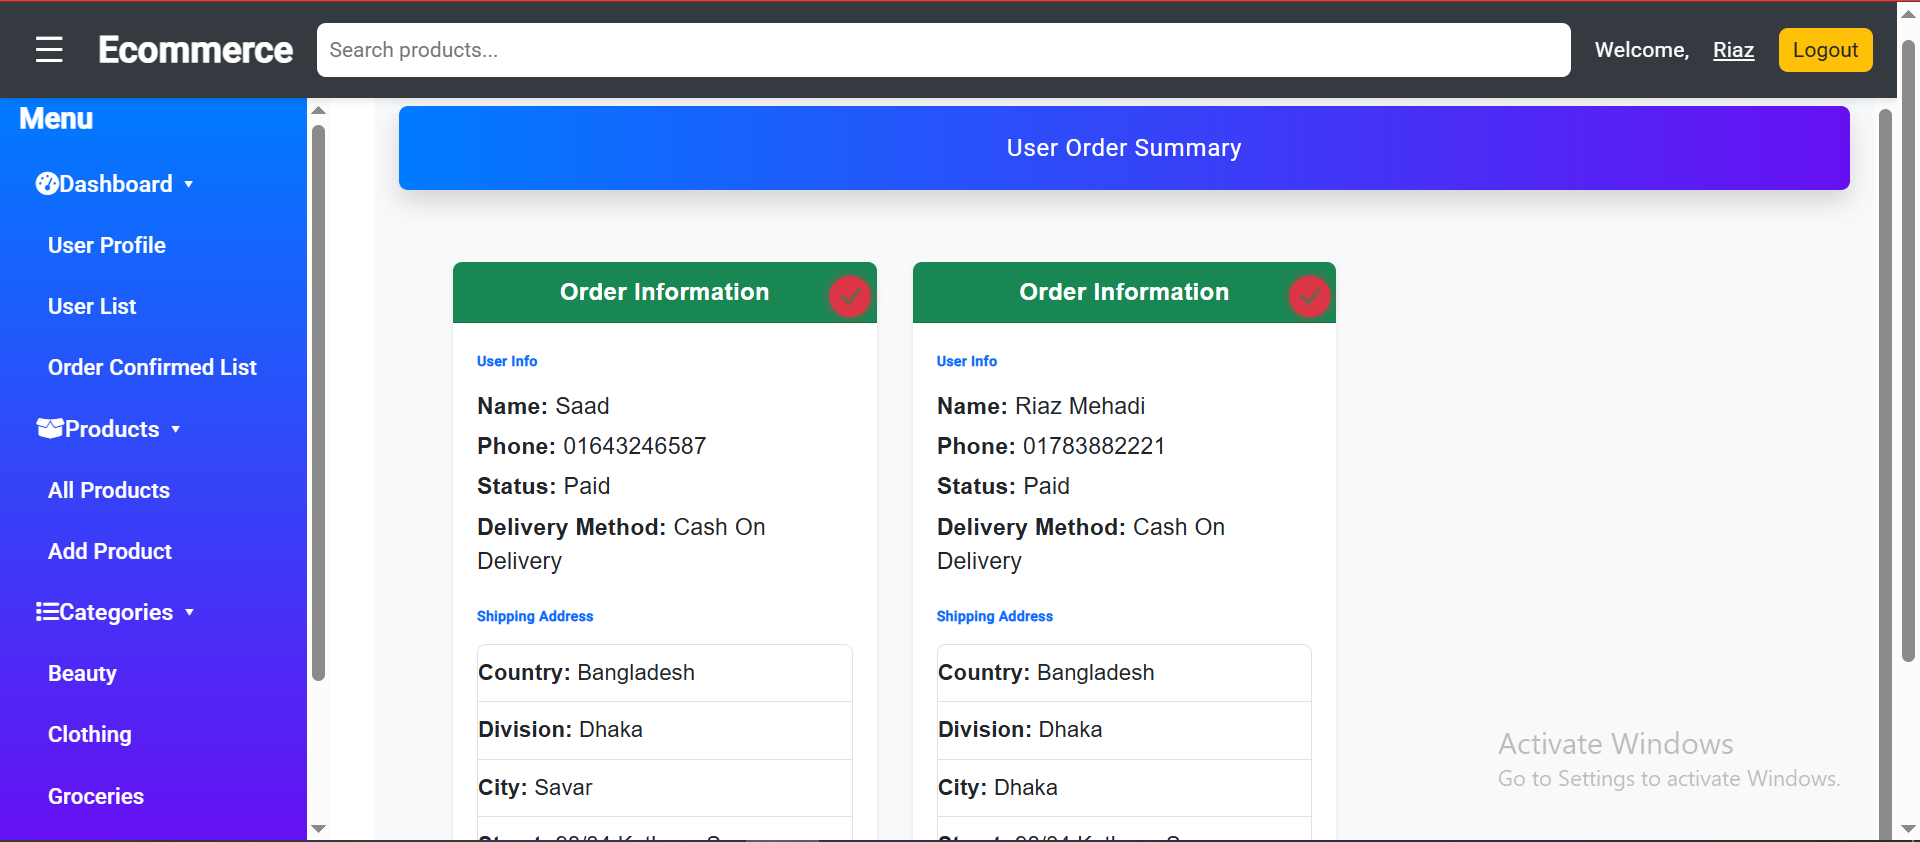
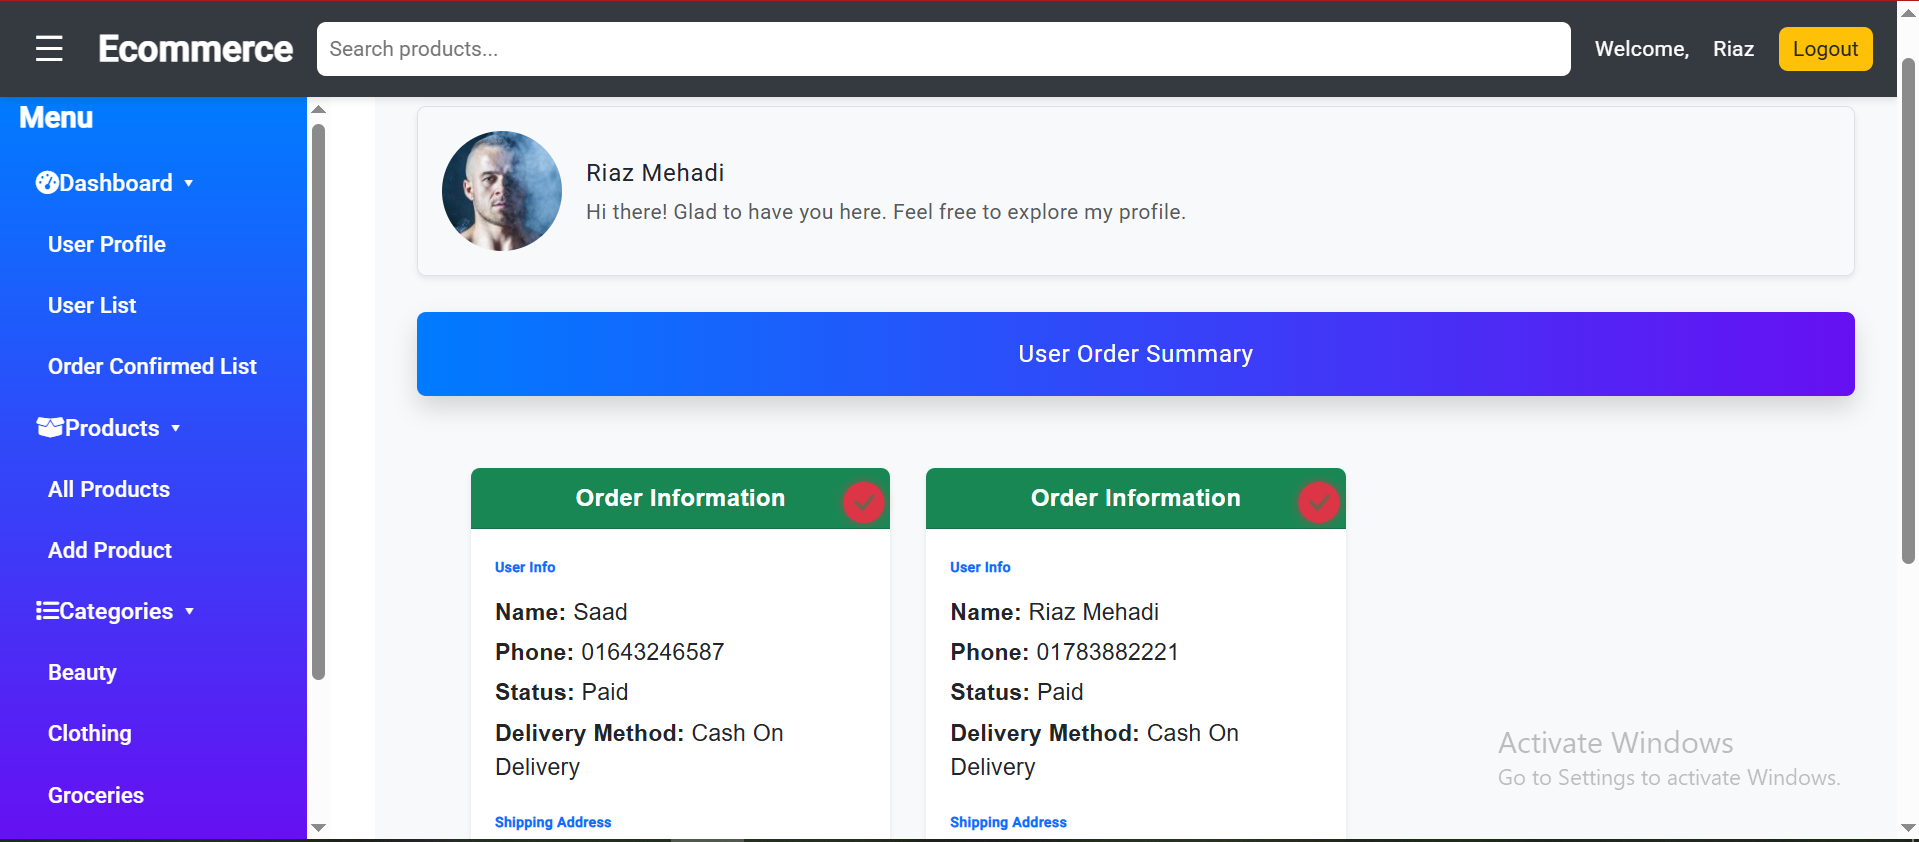
done

diff --git a/Ecommerce/src/app/app-nav/app-nav.component.html b/Ecommerce/src/app/app-nav/app-nav.component.html
@@ -1,6 +1,6 @@
 <div class="sidenav-container" [class.sidebar-collapsed]="isCollapsed">
   <div class="sidenav-wrapper d-flex">
-    
+
     <!-- Sidebar -->
     <nav class="sidenav" [class.collapsed]="isCollapsed">
       <div class="toolbar">
@@ -8,14 +8,14 @@
       </div>
 
       <!-- Dashboard Section -->
-      <div class="category-toggle" (click)="toggleAllDashboard()">
+      <div *ngIf="isLoggedIn" class="category-toggle" (click)="toggleAllDashboard()">
         <i class="fas fa-tachometer-alt"></i>
         <span>Dashboard</span> ▾
       </div>
       <div *ngIf="showDashboard" class="category-list">
-        <a *ngIf="authService.isLoggedIn" routerLink="/dashboard/profile">User Profile</a>
-        <a *ngIf="authService.isAdmin" routerLink="/dashboard/user-list">User List</a>
-        <a *ngIf="authService.isAdmin" routerLink="/dashboard/orderedList">Order Confirmed List</a>
+        <a *ngIf="isLoggedIn" routerLink="/dashboard/profile">User Profile</a>
+        <a *ngIf="isAdmin" routerLink="/dashboard/user-list">User List</a>
+        <a *ngIf="isAdmin" routerLink="/dashboard/orderedList">Order Confirmed List</a>
       </div>
 
       <!-- Product Section -->
@@ -25,7 +25,7 @@
       </div>
       <div *ngIf="showProducts" class="category-list">
         <a routerLink="/dashboard/products">All Products</a>
-        <a routerLink="/dashboard/products/add">Add Product</a>
+        <a *ngIf="isAdmin" routerLink="/dashboard/products/add">Add Product</a>
       </div>
 
       <!-- Category Section -->
@@ -53,13 +53,14 @@
         </div>
 
         <div class="auth">
-          <span *ngIf="authService.isLoggedIn">Welcome,</span>
-          <a [routerLink]="'/dashboard/profile'" class="username">
-            <span *ngIf="authService.isLoggedIn">{{ authService.firstName }}</span>
+          <span *ngIf="isLoggedIn">Welcome,</span>
+          <a [routerLink]="'/dashboard/profile'" class="username" style="text-decoration: none;">
+            <span *ngIf="isLoggedIn">{{firstName}}</span>
           </a>
-          <button *ngIf="!authService.isLoggedIn" [routerLink]="'/login'">Login</button>
-          <button *ngIf="authService.isLoggedIn" (click)="logout()">Logout</button>
+          <button *ngIf="!isLoggedIn" [routerLink]="'/login'">Login</button>
+          <button *ngIf="isLoggedIn" (click)="logout()">Logout</button>
         </div>
+
       </header>
 
       <main class="content">

diff --git a/Ecommerce/src/app/app-nav/app-nav.component.ts b/Ecommerce/src/app/app-nav/app-nav.component.ts
@@ -30,6 +30,9 @@ export class AppNavComponent implements OnInit {
   showAllCategories = false;
   showDashboard = false;
   showProducts=false;
+  isAdmin=false;
+  isLoggedIn=false;
+  firstName ='';
 
   categories = [
     { name: 'Beauty', link: '/dashboard/category/beauty-products' },
@@ -49,7 +52,9 @@ export class AppNavComponent implements OnInit {
 
   ngOnInit(): void {
 
-
+    this.isLoggedIn=localStorage.getItem('isLoggedIn')==='true';
+    this.isAdmin=localStorage.getItem('isAdmin')==='true';
+    this.firstName=localStorage.getItem('firstName')!
     this.searchfilter.valueChanges.subscribe(value => {
       this.SearchService.setSearch(value || '');
       this.router.navigate(['/dashboard/search']);
@@ -82,7 +87,10 @@ export class AppNavComponent implements OnInit {
 
   logout() {
     this.authService.clearUser();
-
+    localStorage.clear();
+    this.isAdmin=false;
+    this.isLoggedIn=false;
+    this.firstName='';
     this.router.navigate(['/products']);
   }
 

diff --git a/Ecommerce/src/app/user-profile/user-profile.component.html b/Ecommerce/src/app/user-profile/user-profile.component.html
@@ -1,3 +1,20 @@
+<div class="container mt-4">
+  <!-- Profile Section -->
+  <div class="d-flex align-items-center mb-4 p-3 border rounded shadow-sm bg-light">
+    <img
+      [src]="user.avatarUrl || 'assets/default-avatar.png'"
+      alt="Avatar"
+      class="rounded-circle me-3"
+      width="80"
+      height="80"
+      style="object-fit: cover;"
+    />
+    <div>
+      <h4 class="mb-1">{{ user.fullName }}</h4>
+      <p class="text-muted mb-0">{{ user.bio }}</p>
+    </div>
+  </div>
+
 <h4 class="text-center text-white py-3 px-4 rounded mb-4 shadow"
   style="background: linear-gradient(90deg, #007bff, #6610f2);">
   User Order Summary

diff --git a/Ecommerce/src/app/user-profile/user-profile.component.ts b/Ecommerce/src/app/user-profile/user-profile.component.ts
@@ -13,6 +13,12 @@ import { Router } from '@angular/router';
 })
 export class UserProfileComponent implements OnInit {
   orderedList: any;
+  user = {
+  fullName: localStorage.getItem('firstName') + " " + localStorage.getItem('lastName'),
+  bio: 'Hi there! Glad to have you here. Feel free to explore my profile.',
+  avatarUrl: 'https://i.pravatar.cc/150?img=3'
+};
+
 
   constructor(
     private orderService: OrderService,

diff --git a/Ecommerce/src/app/guards/can-activate-admin.guard.ts b/Ecommerce/src/app/guards/can-activate-admin.guard.ts
@@ -3,7 +3,7 @@ import { AuthService } from '../services/auth-service/auth.service';
 import { inject } from '@angular/core';
 
 export const canActivateAdminGuard: CanActivateFn = (route, state) => {
-  const service = inject(AuthService);
-    return service.isAdmin && service.isLoggedIn;
+  
+    return localStorage.getItem('isAdmin')==='true' && localStorage.getItem('isLoggedIn')==='true';
 };
 

diff --git a/Ecommerce/src/app/services/auth-service/auth.service.ts b/Ecommerce/src/app/services/auth-service/auth.service.ts
@@ -56,11 +56,7 @@ export class AuthService {
     this.lastName = '';
     this.userId= '';
 
-    localStorage.removeItem('isLoggedIn');
-    localStorage.removeItem('isAdmin');
-    localStorage.removeItem('firstName');
-    localStorage.removeItem('lastName');
-    localStorage.removeItem('userId');
+   localStorage.clear();
   }
 
 }

diff --git a/Ecommerce/src/app/guards/can-activate.guard.ts b/Ecommerce/src/app/guards/can-activate.guard.ts
@@ -3,6 +3,6 @@ import { AuthService } from '../services/auth-service/auth.service';
 import { inject } from '@angular/core';
 
 export const canActivateGuard: CanActivateFn = (route, state) => {
-    const service = inject(AuthService);
-    return service.isLoggedIn;
+ 
+    return localStorage.getItem('isLoggedIn')==='true';
 };
